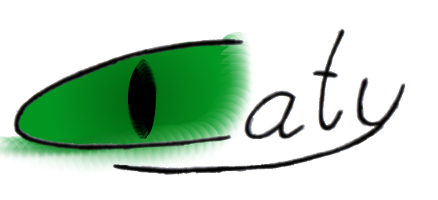
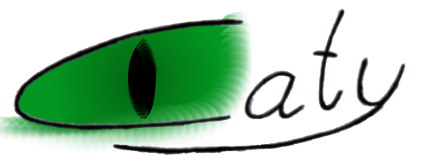
added title, changed some visuals

diff --git a/static/styles.sass b/static/styles.sass
@@ -6,6 +6,7 @@ body, html
   :margin 0
   :padding 0
   :background-color= !white
+  :font-family monospace
 
 a
   :color= !green
@@ -22,9 +23,13 @@ img
 #header
 
   #logo
-    :width 500px
+    :width 700px
     :text-align center
     :margin auto
+
+    #title
+      :color= !green
+      :font-size 2.5em
 
   #menu
     :text-align center
@@ -54,4 +59,7 @@ img
   .copyleft
     :float right
     :margin 10px
+
+    .strong
+      :font-weight bold
 
